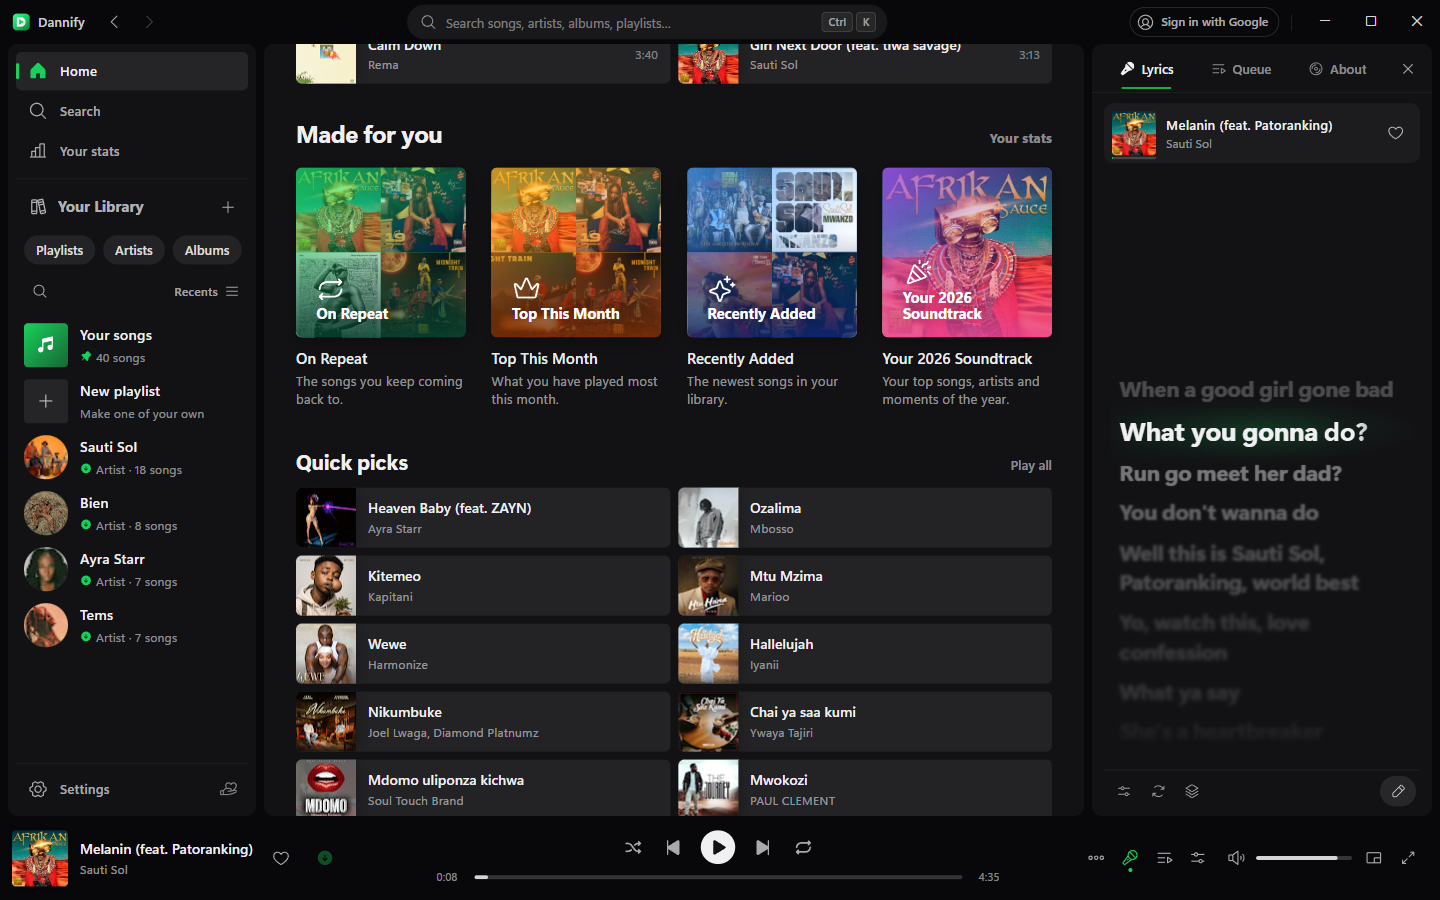
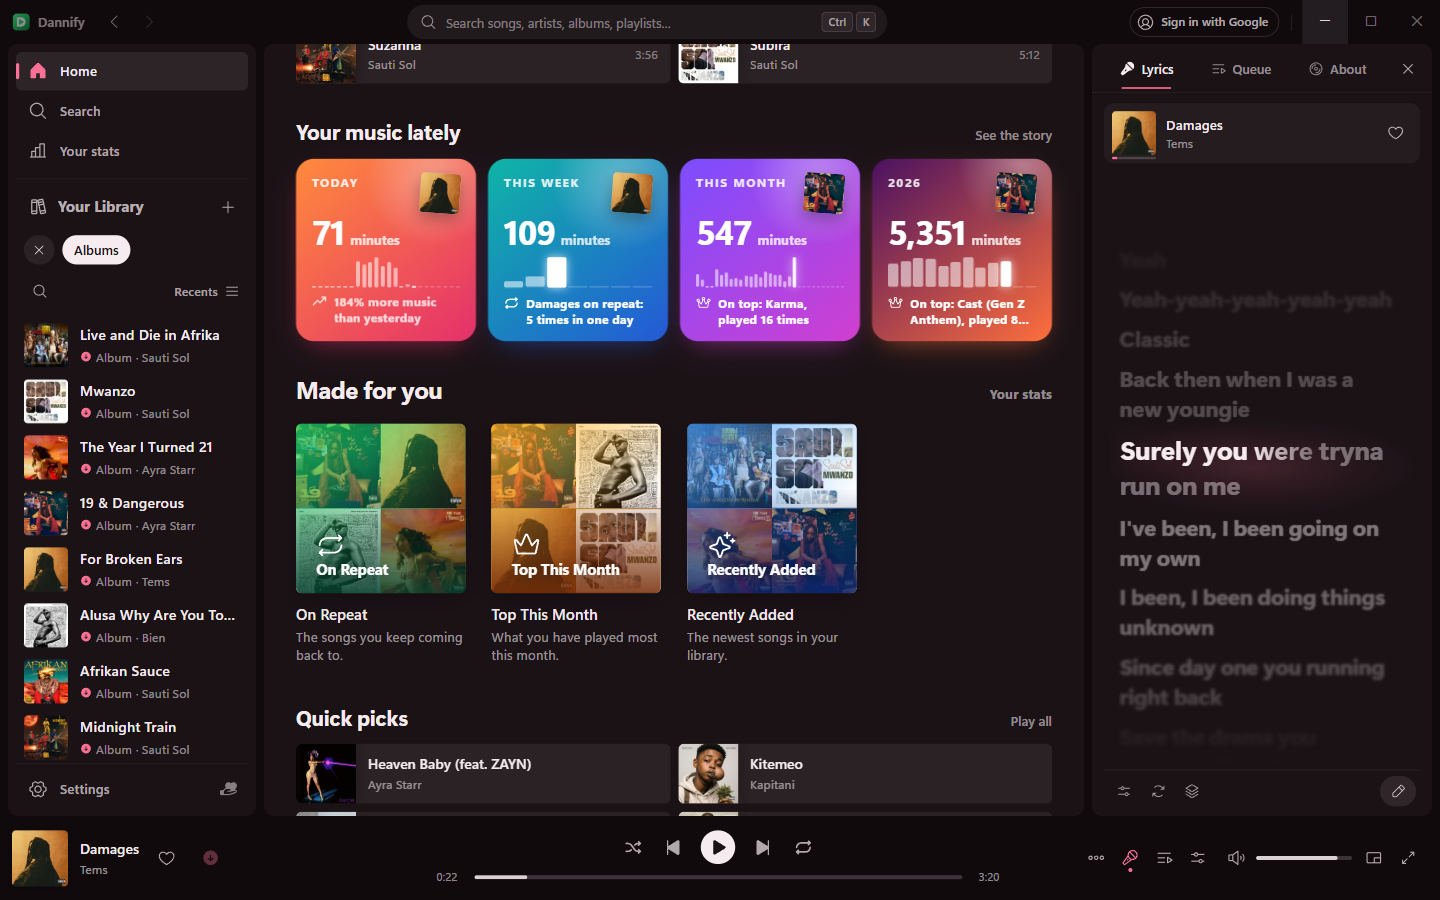
Docs: Your music lately, stories for every stretch, PayPal first

diff --git a/CHANGELOG.md b/CHANGELOG.md
@@ -6,16 +6,29 @@ page](https://github.com/Riskraptor/Dannify/releases).
 
 ## 4.14.0
 
-Your Soundtrack, a kinder update, a Settings worth opening, and an app that
-feels like one.
+Your Soundtrack for today, this week, this month and the year, a kinder
+update, a Settings worth opening, and an app that feels like one.
 
+- **Your music lately.** Home opens with four tiles: today, this week, this
+  month and this year, each in its own colour, with the minutes you
+  listened, the shape of your listening and its best moments taking turns.
+  Your biggest music day ever, days in a row, every day of the week so far,
+  an artist climbing to number one or coming straight into your top five, a
+  song back after months away, the artists new to you, a song on repeat:
+  Dannify finds what is worth saying and says the best first. Each tile
+  opens its own story, and the stories have tabs to move between them.
+- **Hello, by name.** Signed in to YouTube, Home and Your Soundtrack greet
+  you by your first name, the letters rising into place.
 - **Your year in music is now Your Soundtrack, and everything in it plays.**
   Up to fourteen pages, each in its own colour: the minutes you listened
   against last year; your top artist and their share of your listening;
   your song of the year, when you first played it and the most times in a
   day; your top albums; the year month by month; the hours and weekdays you
   listen most; your longest streak and the song you could not stop
-  repeating; what you discovered; and the kind of listener you are. Every
+  repeating; what you discovered; and the kind of listener you are. Today,
+  this week and this month have stories of their own: each compared with the
+  one before, told part by part (a day's morning to night, a week day by
+  day, a month week by week), with a page of its moments. Every
   song, artist and album in it plays or opens at a click, and with the
   music following the story, each page plays its own song. Click the bars
   at the top to jump to any page, swipe, scroll or use Home and End, and
@@ -39,18 +52,23 @@ feels like one.
   days have pages of their own. Panes slide in, the arrow keys move
   between them, and a search marks the words it found. Language is in
   General.
-- **Support Dannify.** A page of its own: Ko-fi, M-Pesa and PayPal, and the
-  ways to help that cost nothing, like telling a friend.
+- **Support Dannify.** A page of its own, with PayPal first: give in
+  PayPal's own secure checkout without leaving Dannify, and be thanked when
+  it goes through. In Kenya, M-PESA Till 8496746 is right there too, and
+  Ko-fi works everywhere. Plus the ways to help that cost nothing, like
+  telling a friend.
 - **Tell the developer.** Report a problem or share an idea from inside the
   app, and it reaches the developer's inbox, with the app's details if you
   want them to go. Sending is a slide of a music note, so nothing goes by
-  accident.
+  accident, and a quick check (hCaptcha, invisible for most people) keeps
+  robots out.
 - **Special days, brought to life.** Every day's weather has depth now:
   far pieces small and faint, near ones large and soft, parting as you move
   the mouse, with gusts of wind for what falls. Lamps, lanterns and stars
   glow, a star shoots across on Eid, and New Year's fireworks climb on a
   trail and burst in rings of sparks. Settings shows the next day as a card
-  in its own colours, and setting up Dannify asks where you are.
+  in its own colours, its region right at the top, and setting up Dannify
+  asks where you are.
 - **An app, not a page.** The browser's own keys and habits are gone:
   Ctrl+P printing, the caret browsing prompt, the link address in the
   corner, middle-click autoscroll, links opening second windows, pictures

diff --git a/README.md b/README.md
@@ -18,7 +18,7 @@ outside the app can reach.
 
 | | |
 | --- | --- |
-| ![Made for you: mixes on Home that keep up with your listening](docs/screenshots/made-for-you.png) | ![Your Soundtrack: your year in music, told as a story you can play](docs/screenshots/year-in-music.png) |
+| ![Your music lately and Made for you: today, this week, this month and this year at a glance, and mixes that keep up with your listening](docs/screenshots/made-for-you.png) | ![Your Soundtrack: your year in music, told as a story you can play](docs/screenshots/year-in-music.png) |
 | ![Now Playing, with synced lyrics](docs/screenshots/now-playing.png) | ![Your stats: time listened, streaks and a chart of every day](docs/screenshots/stats.png) |
 | ![Settings: each pane in its own colour, with your account and version down the side](docs/screenshots/settings.png) | ![The welcome after a big update](docs/screenshots/welcome.png) |
 | ![A special day: Diwali, with its lamps and its music](docs/screenshots/special-day.png) | ![Lyrics timing: click the line you hear and the words line up](docs/screenshots/lyrics-timing.png) |
@@ -58,7 +58,11 @@ year month by month, the hours and weekdays you listen most, your longest
 streak, the song you could not stop repeating, what you discovered and the
 kind of listener you are. Everything in it plays at a click, the music can
 follow the story page by page, and it ends on a card you can play or save
-as a playlist.
+as a playlist. Today, this week and this month get stories of their own,
+and Home's Your music lately shows all four at a glance: the minutes, the
+shape of your listening, and the moments worth telling, like your biggest
+music day ever, days in a row, an artist climbing to number one or a song
+back after months away. Signed in to YouTube, it all says hello by name.
 
 Lyrics scroll in a side panel and follow the song, lighting up word by word
 as each line is sung. If they run early or late, click the line you are
@@ -153,7 +157,8 @@ use it:
 - **Lyrics missing or out of time?** Add or improve them right in the lyrics
   panel; everyone who plays the song gets them.
 - **Enjoying it?** Star the repository, tell a friend, or support Dannify
-  from Settings, Support Dannify (Ko-fi, M-Pesa or PayPal), or
+  from Settings, Support Dannify (PayPal right inside the app, M-Pesa or
+  Ko-fi), or
   [buy me a coffee](https://ko-fi.com/dkavangi).
 
 How to do each is in [CONTRIBUTING.md](CONTRIBUTING.md).
